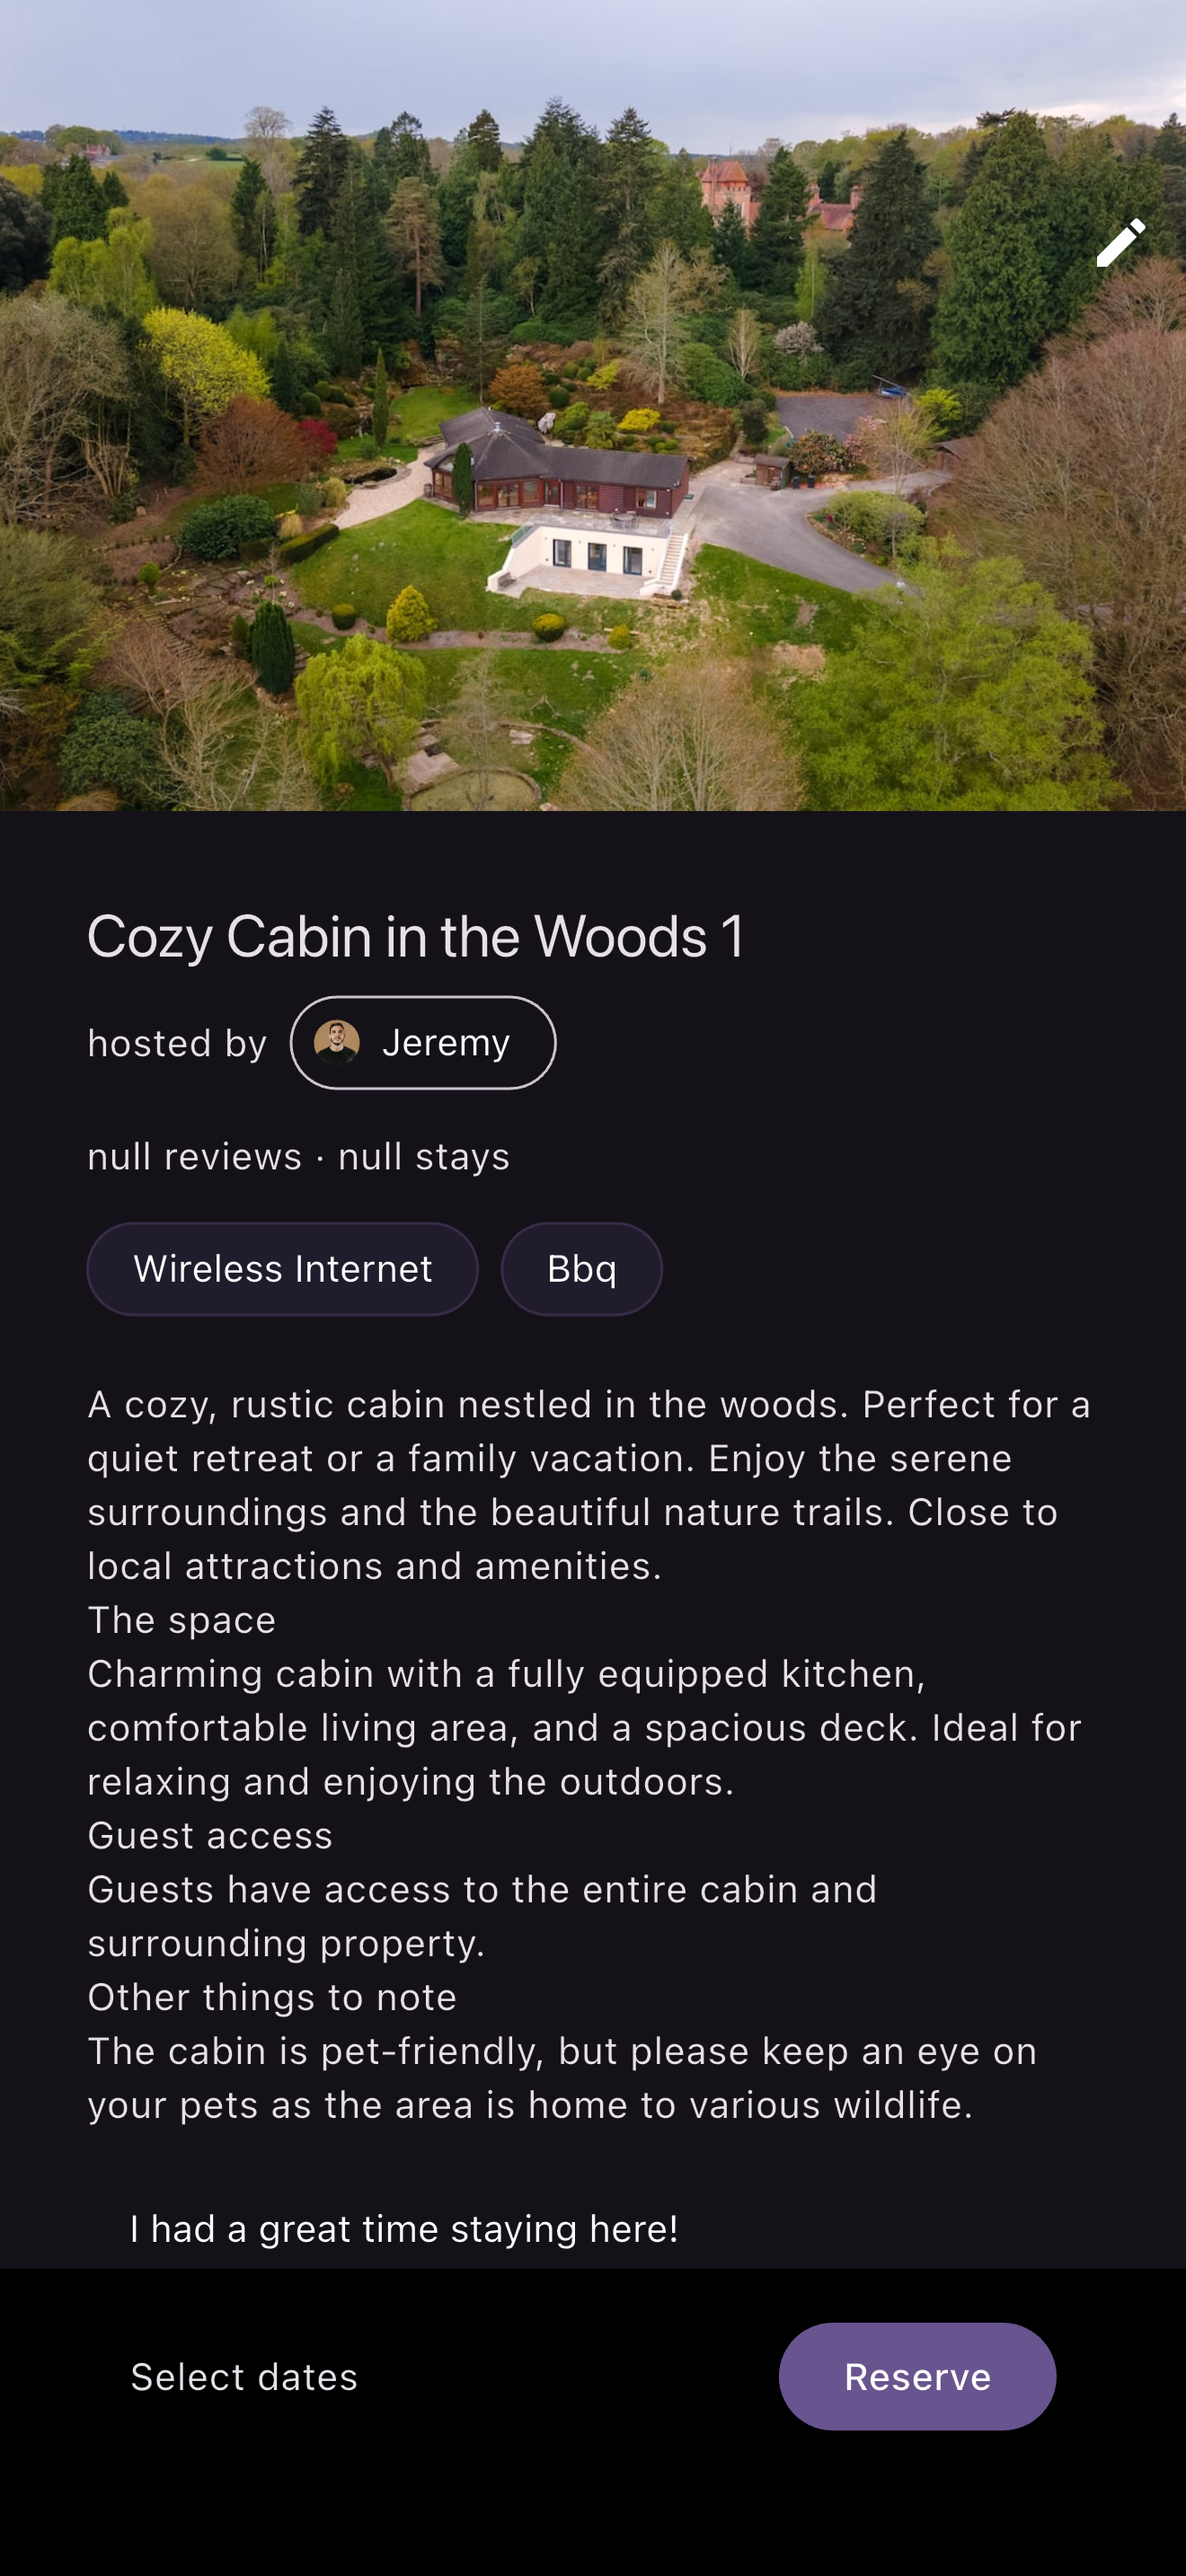
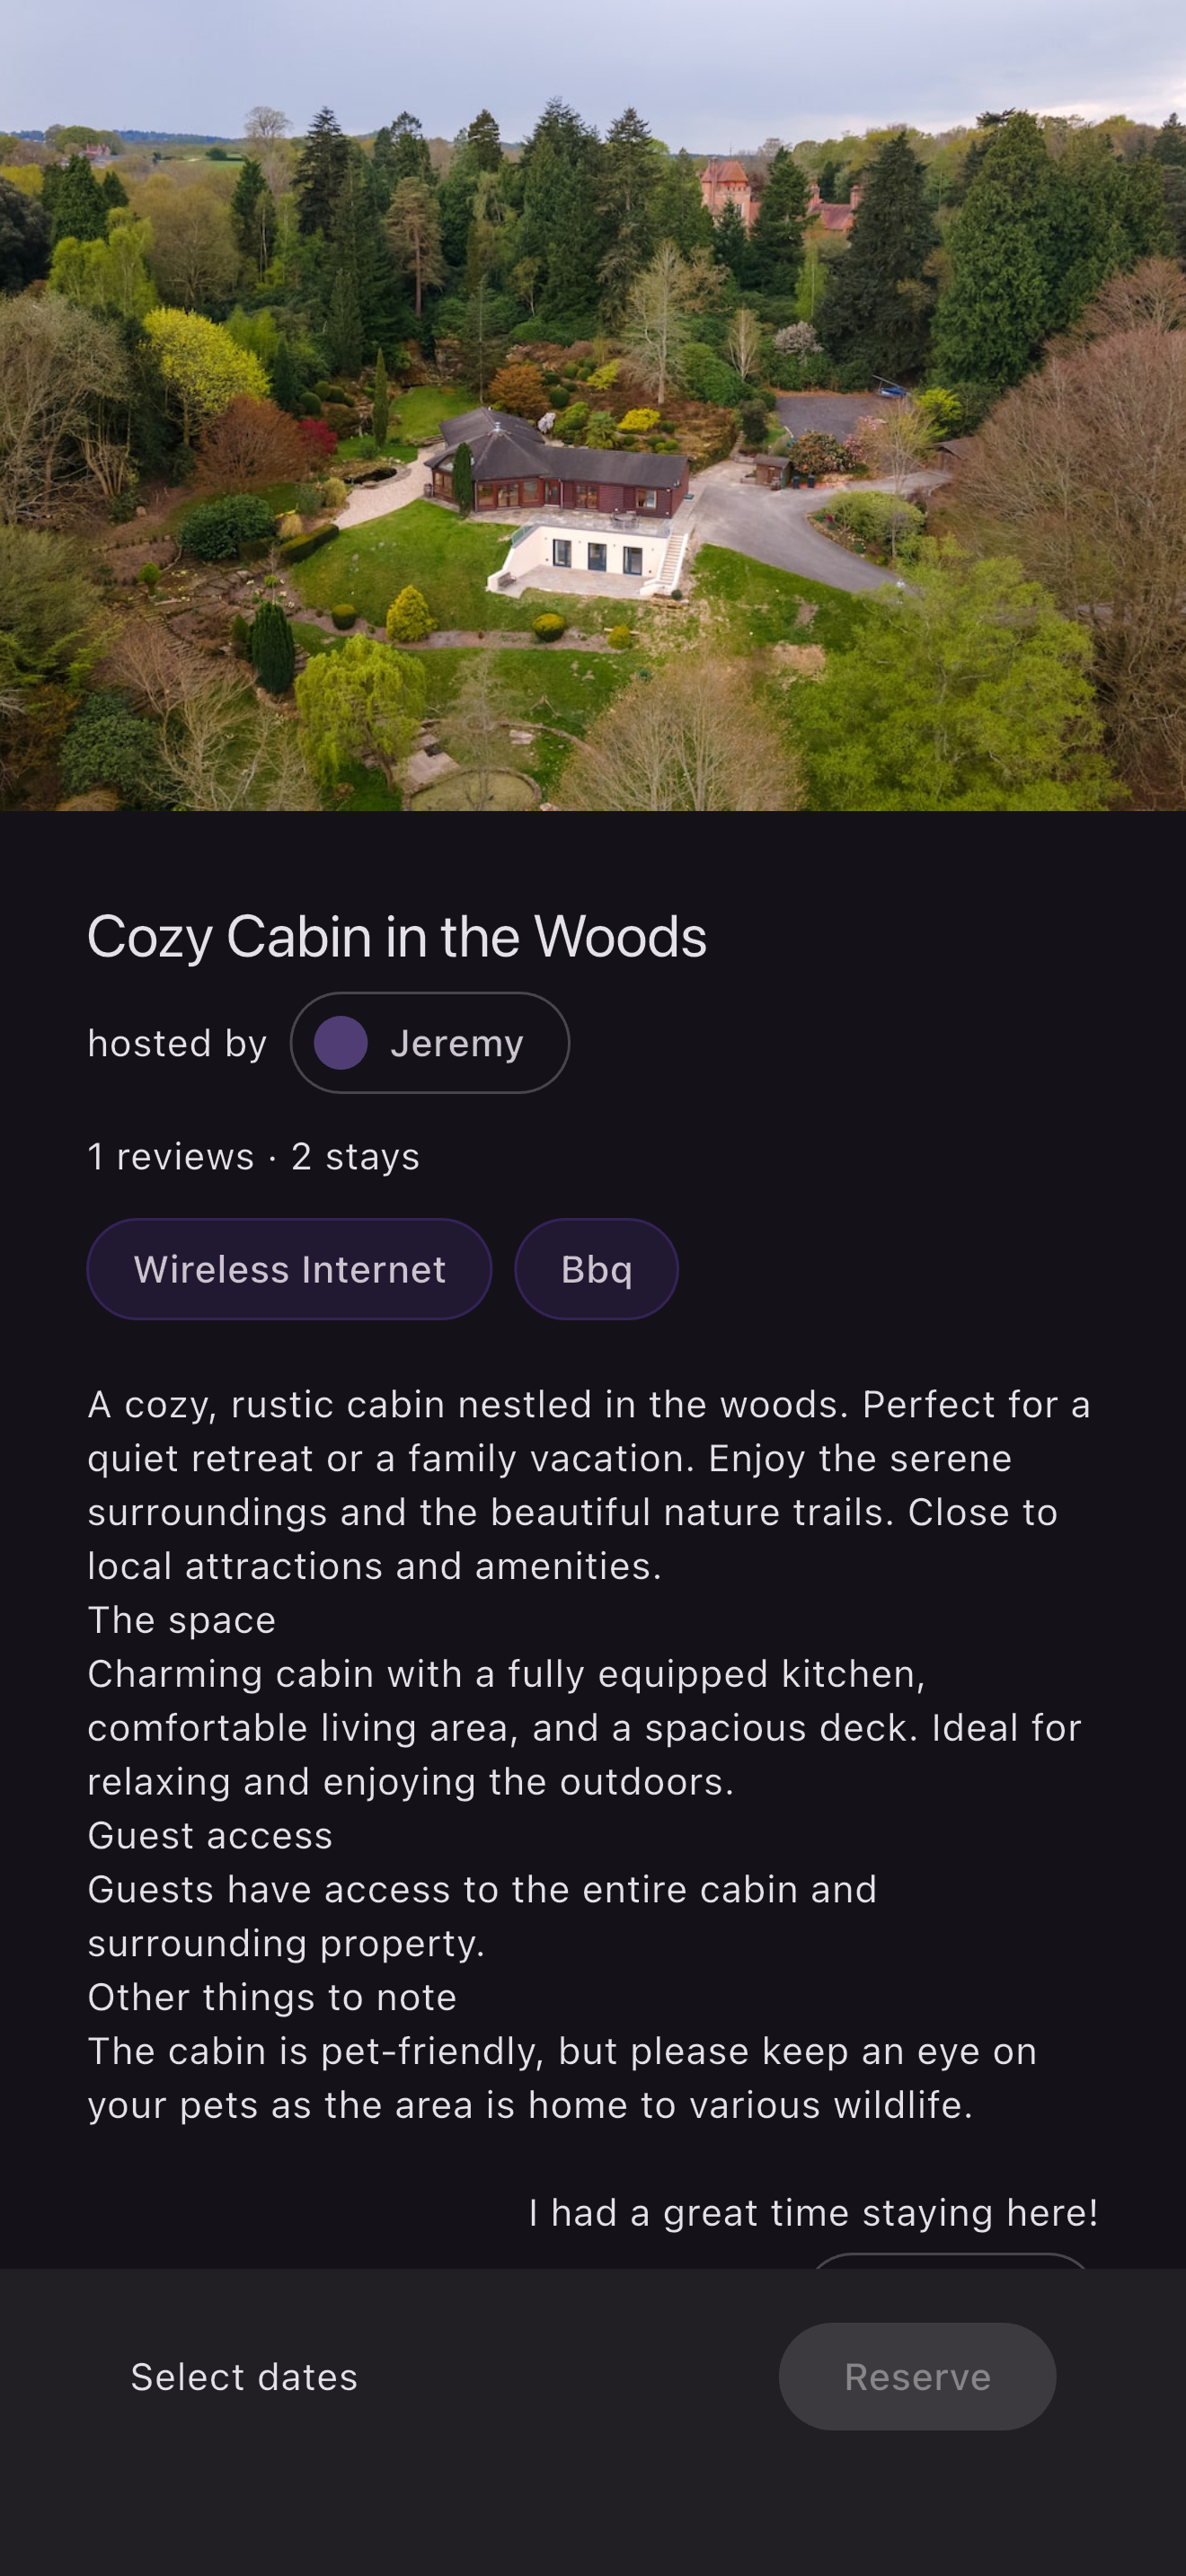
chore: initial commit

Changed region(s): [[0.0, 0.8379, 1.0, 1.0], [0.0932, 0.3724, 0.5902, 0.5275], [0.9318, 0.0621, 0.9629, 0.1241]]

diff --git a/app/integration_test/screenshot.dart b/app/integration_test/screenshot.dart
@@ -20,9 +20,12 @@ loadWidgetAndTakeScreenshot(
     String name) async {
   await tester.pumpWidget(appWrapper(child));
   await binding.convertFlutterSurfaceToImage();
-  await tester.pumpAndSettle(Duration(seconds: 1));
-  await tester.pumpAndSettle(Duration(seconds: 1));
-  await tester.pumpAndSettle(Duration(seconds: 1));
+  await tester.pumpAndSettle(Duration(seconds: 5));
+  await takeScreenshot(binding, name);
+}
+
+takeScreenshot(
+    IntegrationTestWidgetsFlutterBinding binding, String name) async {
   await binding.takeScreenshot('screenshots/$name.png');
 }
 
@@ -38,12 +41,45 @@ void main() {
       await setup(Env.test);
       await seed();
     });
+    testWidgets('login', (tester) async {
+      /// Navigate to the login screen
+      appRouter.navigate(SignInRoute());
+      await loadWidgetAndTakeScreenshot(tester, binding, app, 'login');
+
+      /// Find the nsec field and enter private key
+      final keyField = find.byKey(ValueKey('key'));
+      await tester.enterText(keyField, MockKeys.guest.privateKey!);
+
+      /// Find the login button and tap it
+      final loginButton = find.byKey(ValueKey('login'));
+      await tester.tap(loginButton);
+      await tester.pumpAndSettle(); // Wait for the login process to complete
+    });
     testWidgets('home', (tester) async {
+      /// Screenshot the home page
       await loadWidgetAndTakeScreenshot(tester, binding, app, 'home');
     });
     testWidgets('listing', (tester) async {
+      /// Navigate to the listing screen and screenshot
       appRouter.navigate(ListingRoute(a: MOCK_LISTINGS[0].anchor));
       await loadWidgetAndTakeScreenshot(tester, binding, app, 'listing');
+    });
+    testWidgets('thread', (tester) async {
+      /// Navigate to the inbox screen and screenshot
+      appRouter.navigate(InboxRoute());
+      await loadWidgetAndTakeScreenshot(tester, binding, app, 'threads');
+
+      /// Navigate to a thread screen and screenshot
+      appRouter.navigate(
+          ThreadRoute(id: guestRequest.tags.firstWhere((i) => i[0] == 'a')[1]));
+      await tester.pumpAndSettle(Duration(seconds: 1));
+      await takeScreenshot(binding, 'thread');
+
+      /// Find the pay button and tap it
+      final buttonFinder = find.byKey(ValueKey('pay'));
+      await tester.tap(buttonFinder);
+      await tester.pumpAndSettle(Duration(seconds: 2));
+      await takeScreenshot(binding, 'thread_pay');
     });
   });
 }

diff --git a/app/lib/presentation/screens/shared/inbox/thread/giftwraps/reservation_request.dart b/app/lib/presentation/screens/shared/inbox/thread/giftwraps/reservation_request.dart
@@ -59,6 +59,7 @@ class ThreadReservationRequestWidget extends StatelessWidget {
                     CustomPadding(),
                     Expanded(
                         child: FilledButton(
+                            key: ValueKey('pay_upfront'),
                             onPressed: () {
                               Navigator.of(context).pop();
 
@@ -112,13 +113,12 @@ class ThreadReservationRequestWidget extends StatelessWidget {
       return StreamBuilder(
           stream: context.read<ThreadCubit>().loadBookingState(),
           builder: (context, state) {
-            print(state.data);
-            print("MBooking status");
             if (state.data == null) {
               return BlocProvider<EventPublisherCubit>(
                   create: (context) => EventPublisherCubit(),
                   child: BlocBuilder<EventPublisherCubit, EventPublisherState>(
                     builder: (context, state) => FilledButton(
+                        key: ValueKey('accept'),
                         onPressed: () => accept(context, l),
                         child: Text(isSentByMe ? 'Reserve' : 'Accept')),
                   ));
@@ -129,7 +129,10 @@ class ThreadReservationRequestWidget extends StatelessWidget {
             );
           });
     }
-    return FilledButton(onPressed: () => pay(context), child: Text('Pay'));
+    return FilledButton(
+        key: ValueKey('pay'),
+        onPressed: () => pay(context),
+        child: Text('Pay'));
   }
 
   @override

diff --git a/app/lib/presentation/screens/shared/signin/signin.dart b/app/lib/presentation/screens/shared/signin/signin.dart
@@ -28,6 +28,7 @@ class SignInScreenState extends State<SignInScreen> {
             return Center(
                 child: Column(children: [
               TextFormField(
+                key: ValueKey('key'),
                 onChanged: (value) {
                   setState(() {
                     _private = value;
@@ -37,6 +38,7 @@ class SignInScreenState extends State<SignInScreen> {
               Row(
                 children: [
                   FilledButton(
+                      key: ValueKey('login'),
                       onPressed: () async {
                         var router = AutoRouter.of(context);
                         await context.read<AuthCubit>().signin(_private);

diff --git a/.doc/app/README.md b/.doc/app/README.md
@@ -6,10 +6,11 @@ This is a client that displays and posts events related to short term accommodat
 
 <p align="start">
 
-<img src="/app/screenshots/home.png" alt="Home page" width=200 style="max-width:300px;">
-&nbsp;
-<img src="/app/screenshots/listing.png" alt="Listing page" width=200 style="max-width:300px;">
-
+<img src="/app/screenshots/home.png" alt="Home page" width=200 style="max-width:300px;">&nbsp;
+<img src="/app/screenshots/listing.png" alt="Listing page" width=200 style="max-width:300px;">&nbsp;
+<img src="/app/screenshots/threads.png" alt="Listing page" width=200 style="max-width:300px;">&nbsp;
+<img src="/app/screenshots/thread.png" alt="Listing page" width=200 style="max-width:300px;">&nbsp;
+<img src="/app/screenshots/thread_pay.png" alt="Listing page" width=200 style="max-width:300px;">&nbsp;
 </p>
 
 ## Getting Started

diff --git a/.doc/README.md b/.doc/README.md
@@ -7,7 +7,10 @@ Rental accomodation using purely peer-to-peer technologies such as [Nostr](https
 <p align="start">
 
 <img src="/app/screenshots/home.png" alt="Home page" width=200 style="max-width:300px;">&nbsp;
-<img src="/app/screenshots/listing.png" alt="Listing page" width=200 style="max-width:300px;">
+<img src="/app/screenshots/listing.png" alt="Listing page" width=200 style="max-width:300px;">&nbsp;
+<img src="/app/screenshots/threads.png" alt="Listing page" width=200 style="max-width:300px;">&nbsp;
+<img src="/app/screenshots/thread.png" alt="Listing page" width=200 style="max-width:300px;">&nbsp;
+<img src="/app/screenshots/thread_pay.png" alt="Listing page" width=200 style="max-width:300px;">&nbsp;
 
 </p>
 